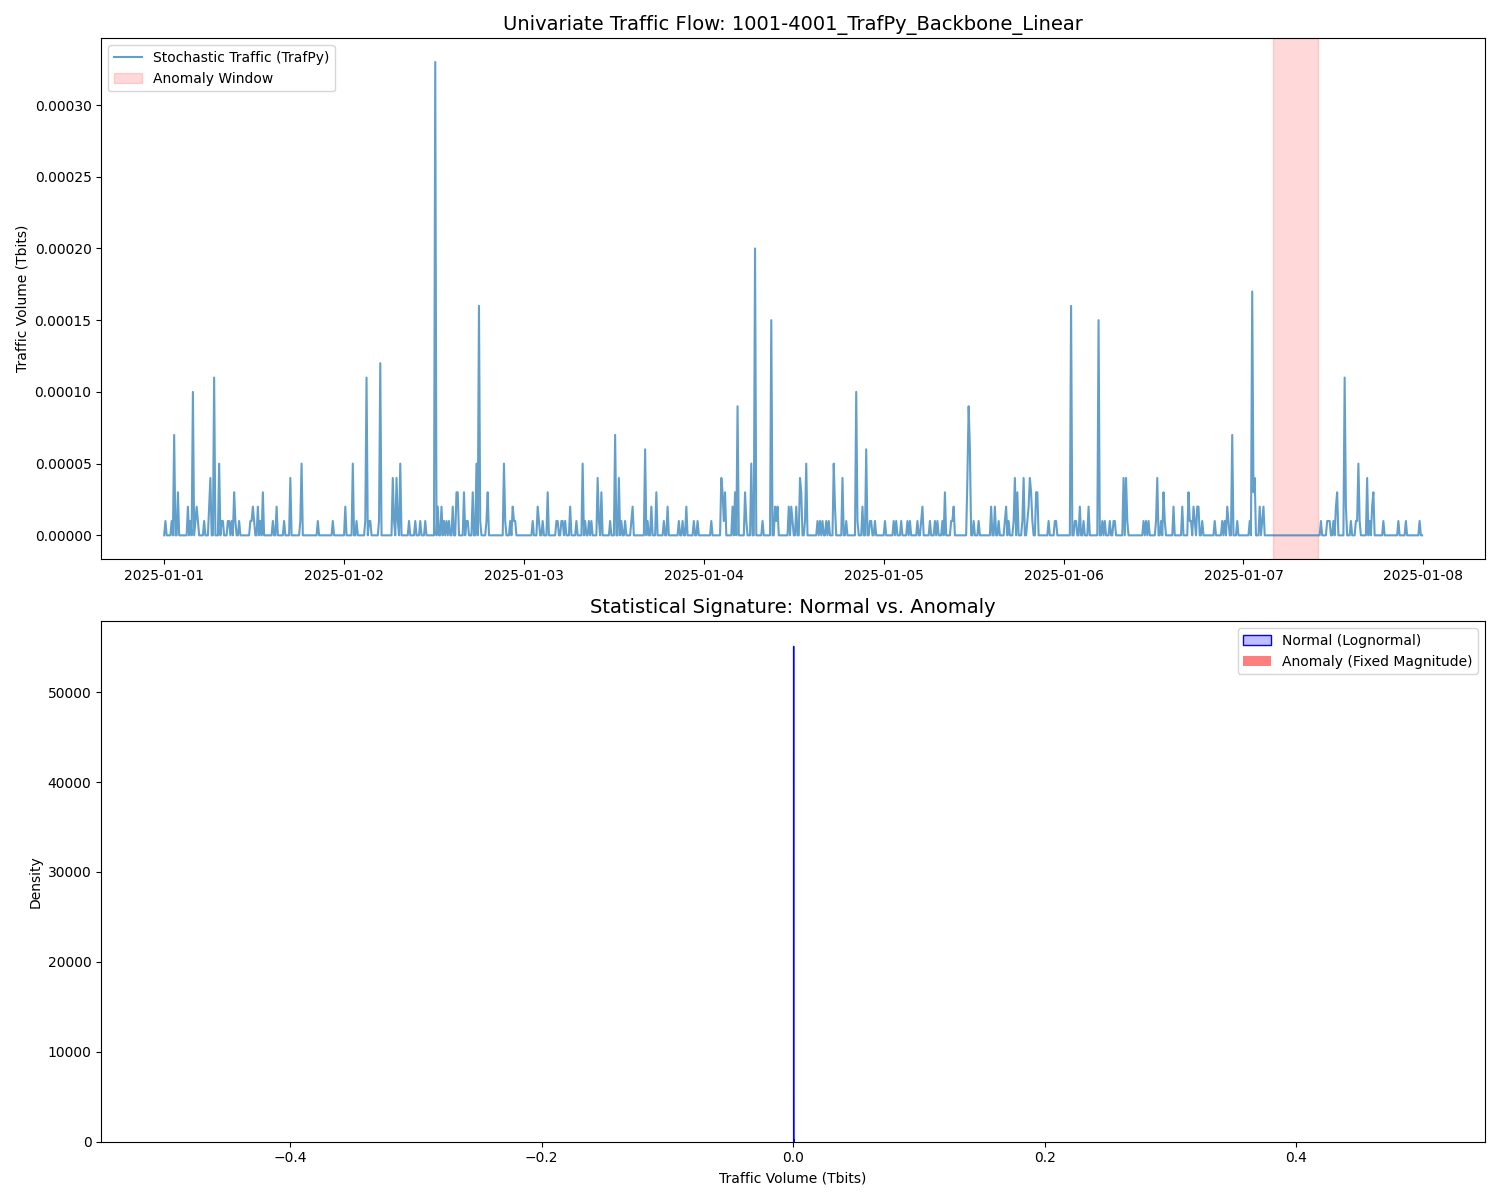
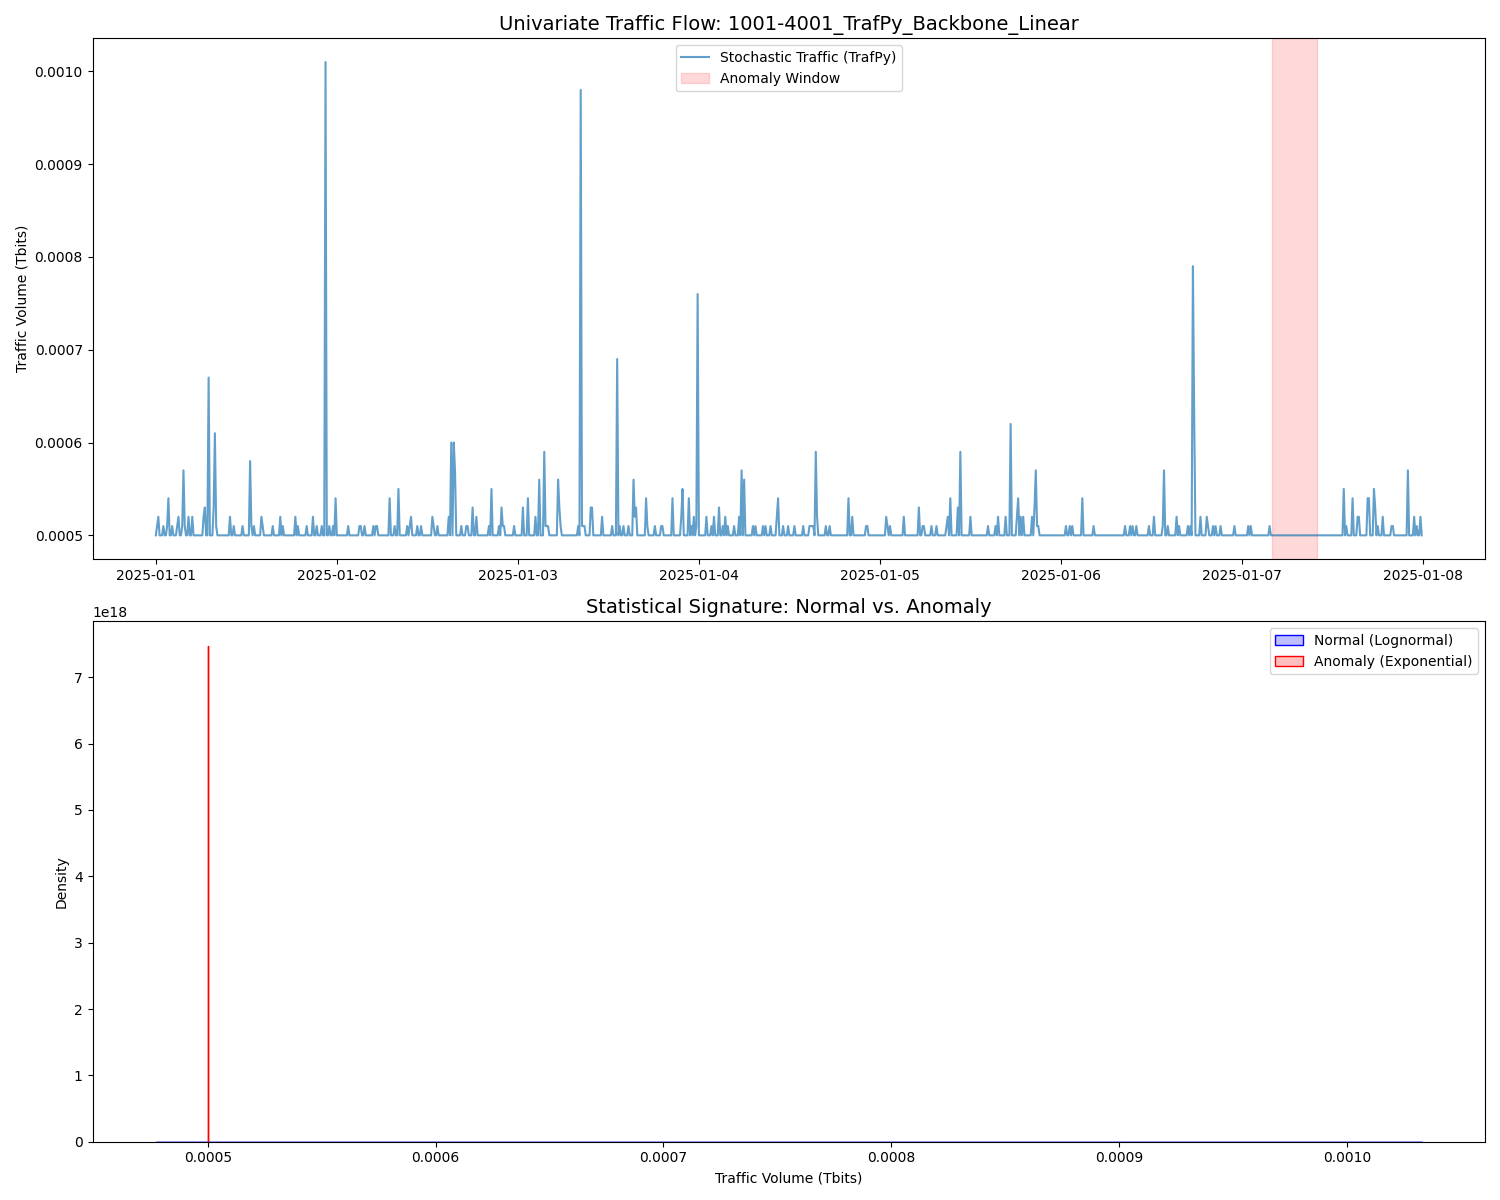
1

diff --git a/trafpy/generate.py b/trafpy/generate.py
@@ -32,7 +32,7 @@ def generate_stochastic_volume(time_index, is_anomaly_array):
             multiplier = 5 # Volume shift magnitude
             
         # Convert sum of bytes to Tbits for your specific column format
-        volumes.append((sum(flow_sizes) * multiplier) / 1e12)
+        volumes.append((sum(flow_sizes) / 1e12) + 0.0005)
         
     return np.array(volumes)
 
